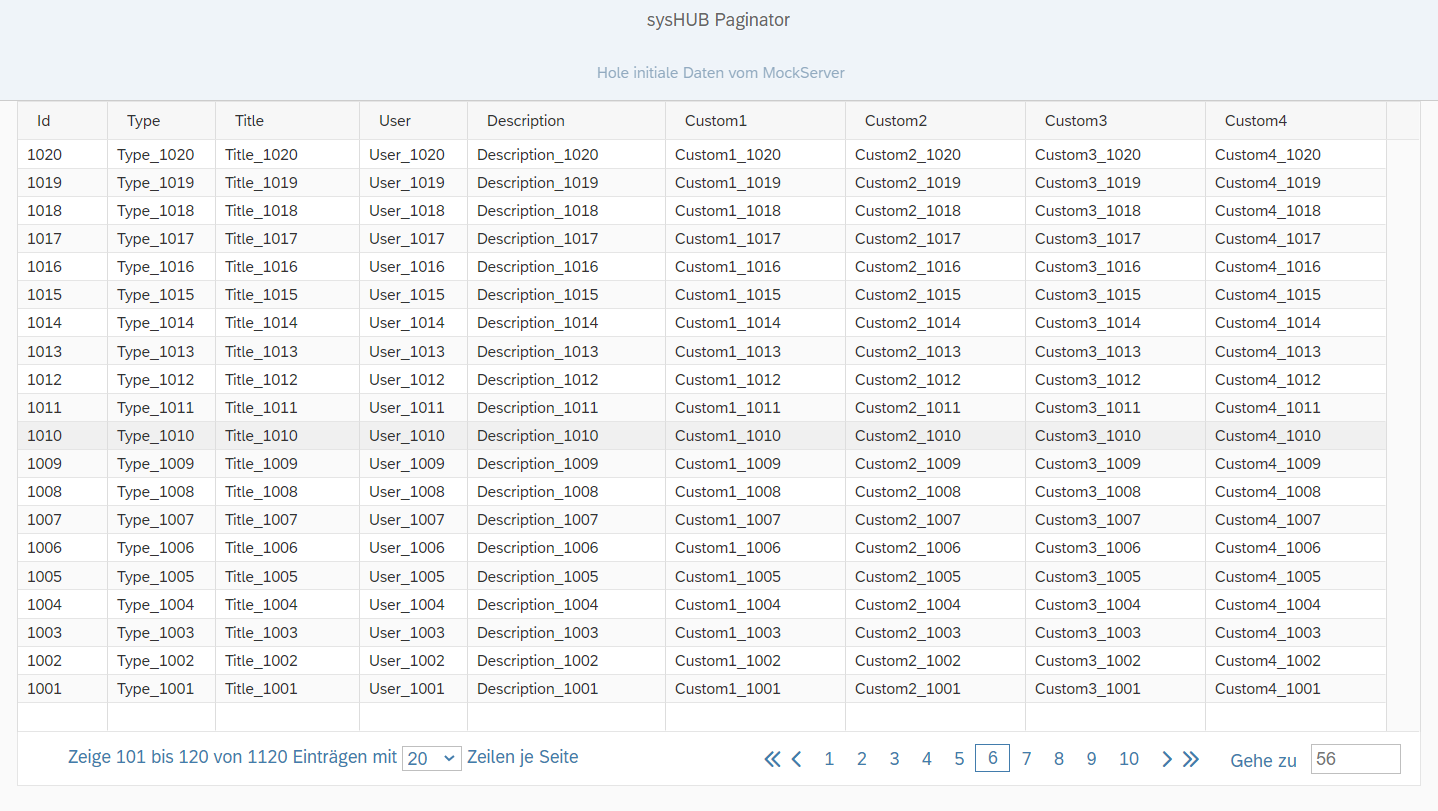
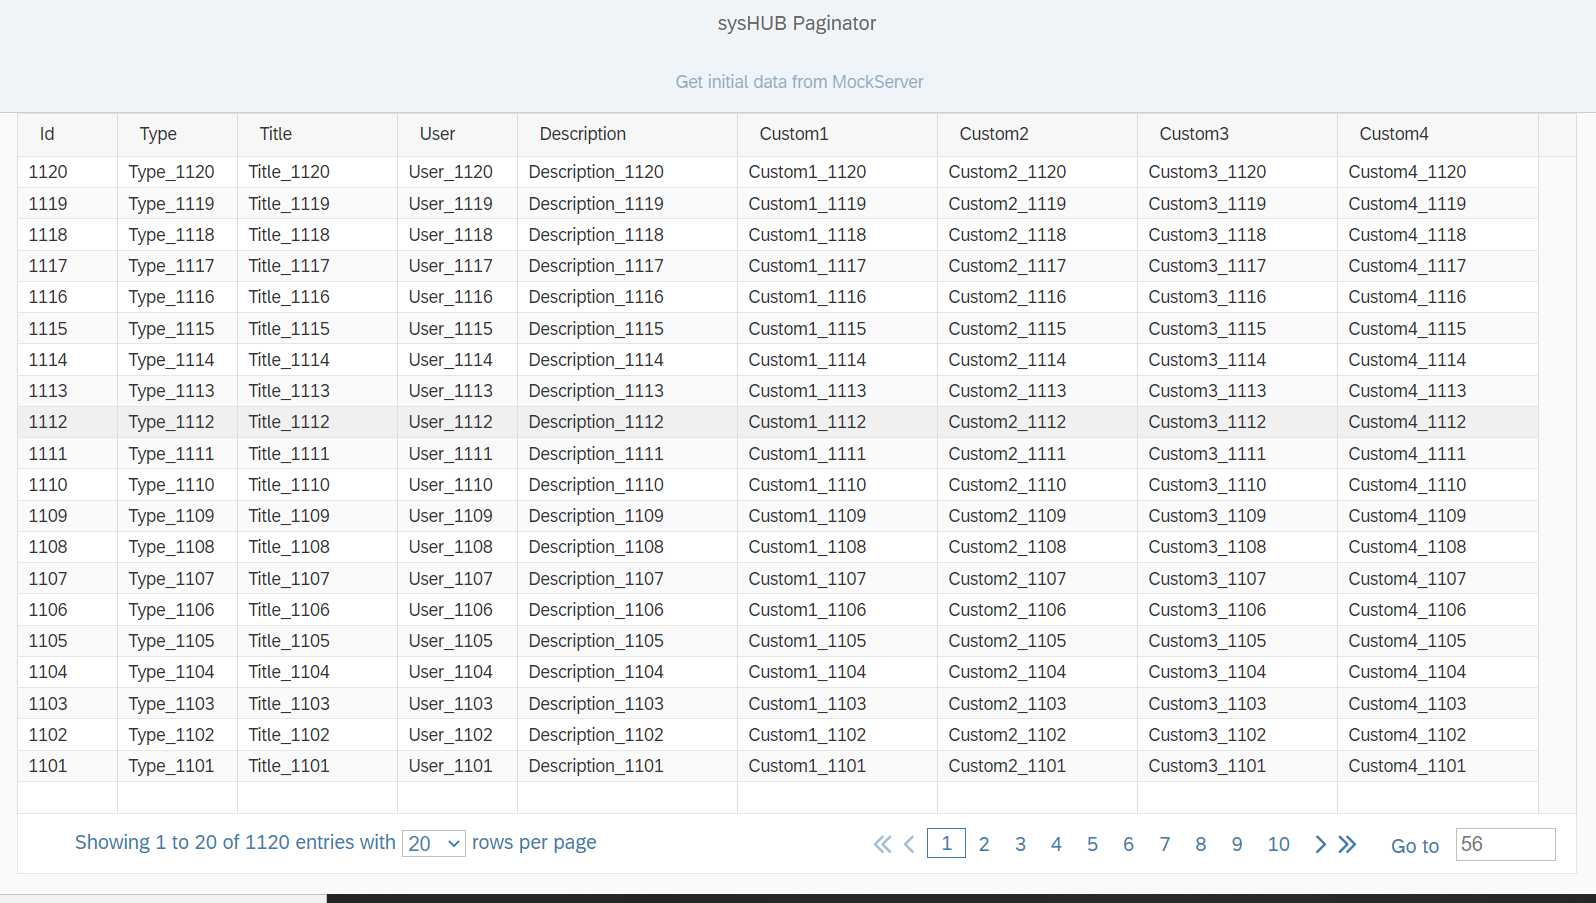
Demo page included and preview image changed to english

diff --git a/README.md b/README.md
@@ -19,6 +19,8 @@ and extended it with some useful features.
 If you check out this project, there is a "demo" app to see how the paginator works. We are using WebStorm as development IDE.
 Configure it as a "JavaScript Debug" run configuration to debug the demo app.
 
+You can also use this link to see a working example:  [openui5-paginator-demo](https://wolfe100.github.io/)
+
 ## Usage the control
 
 ### Configure manifest.json
